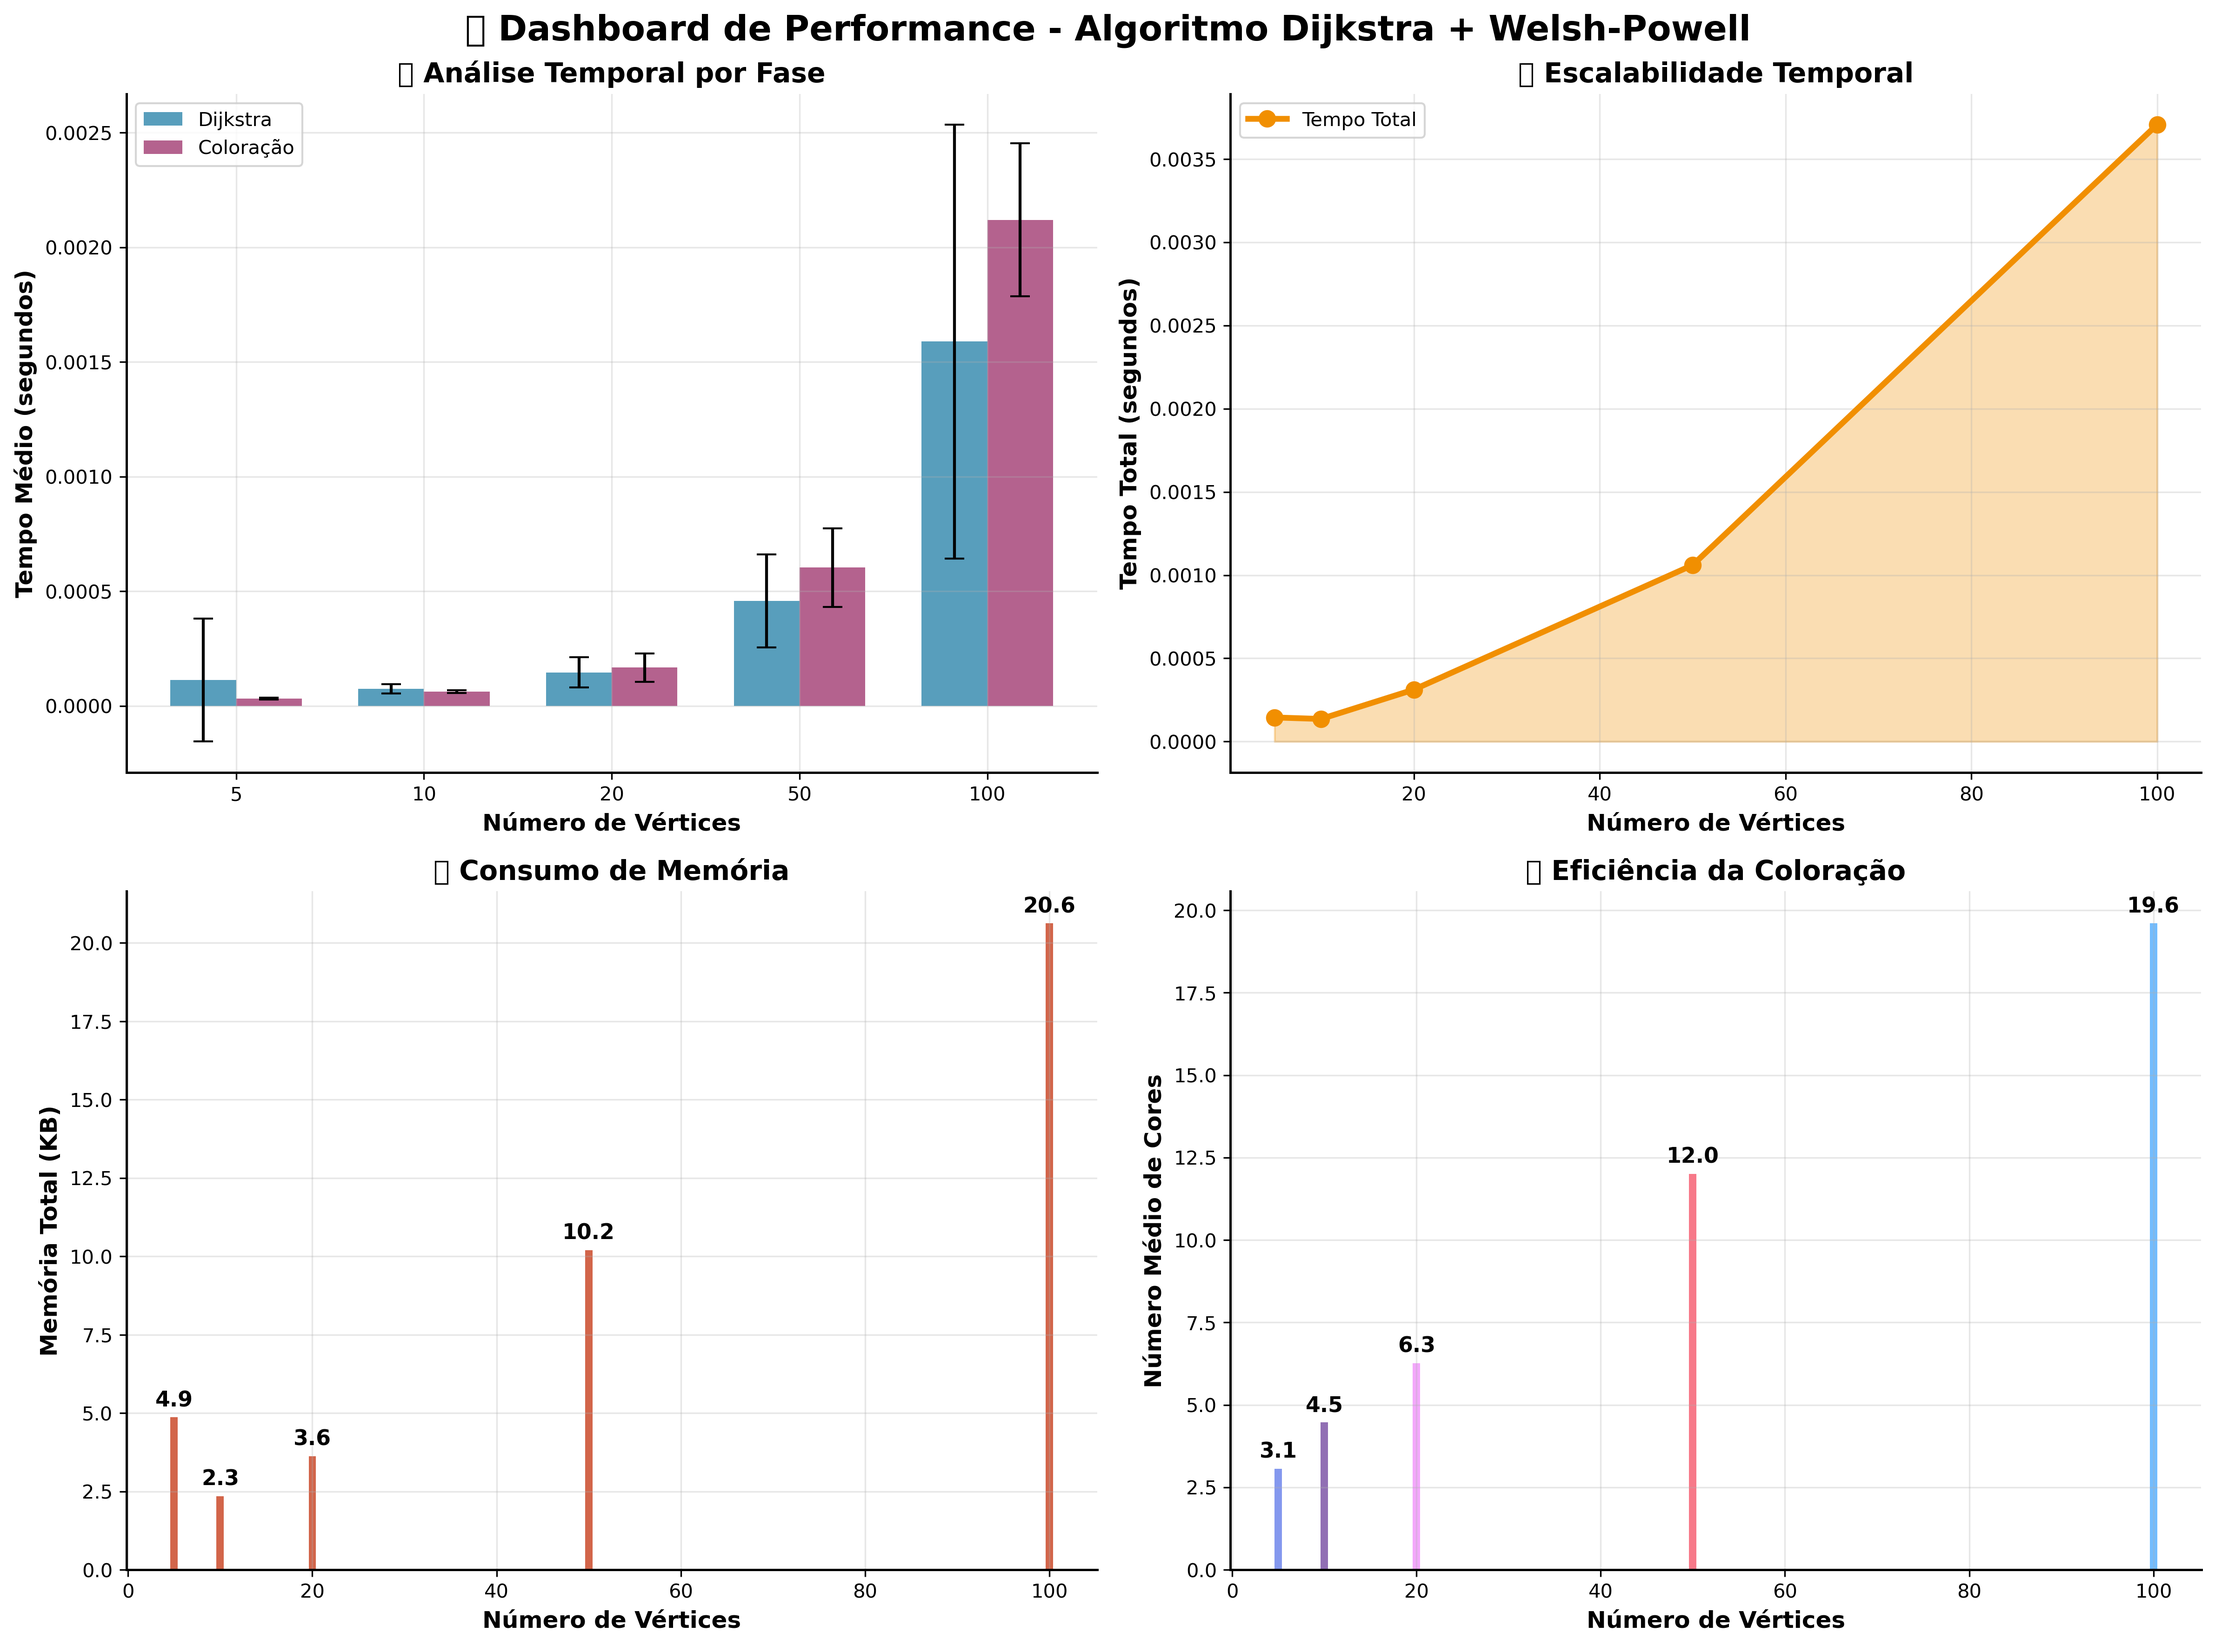
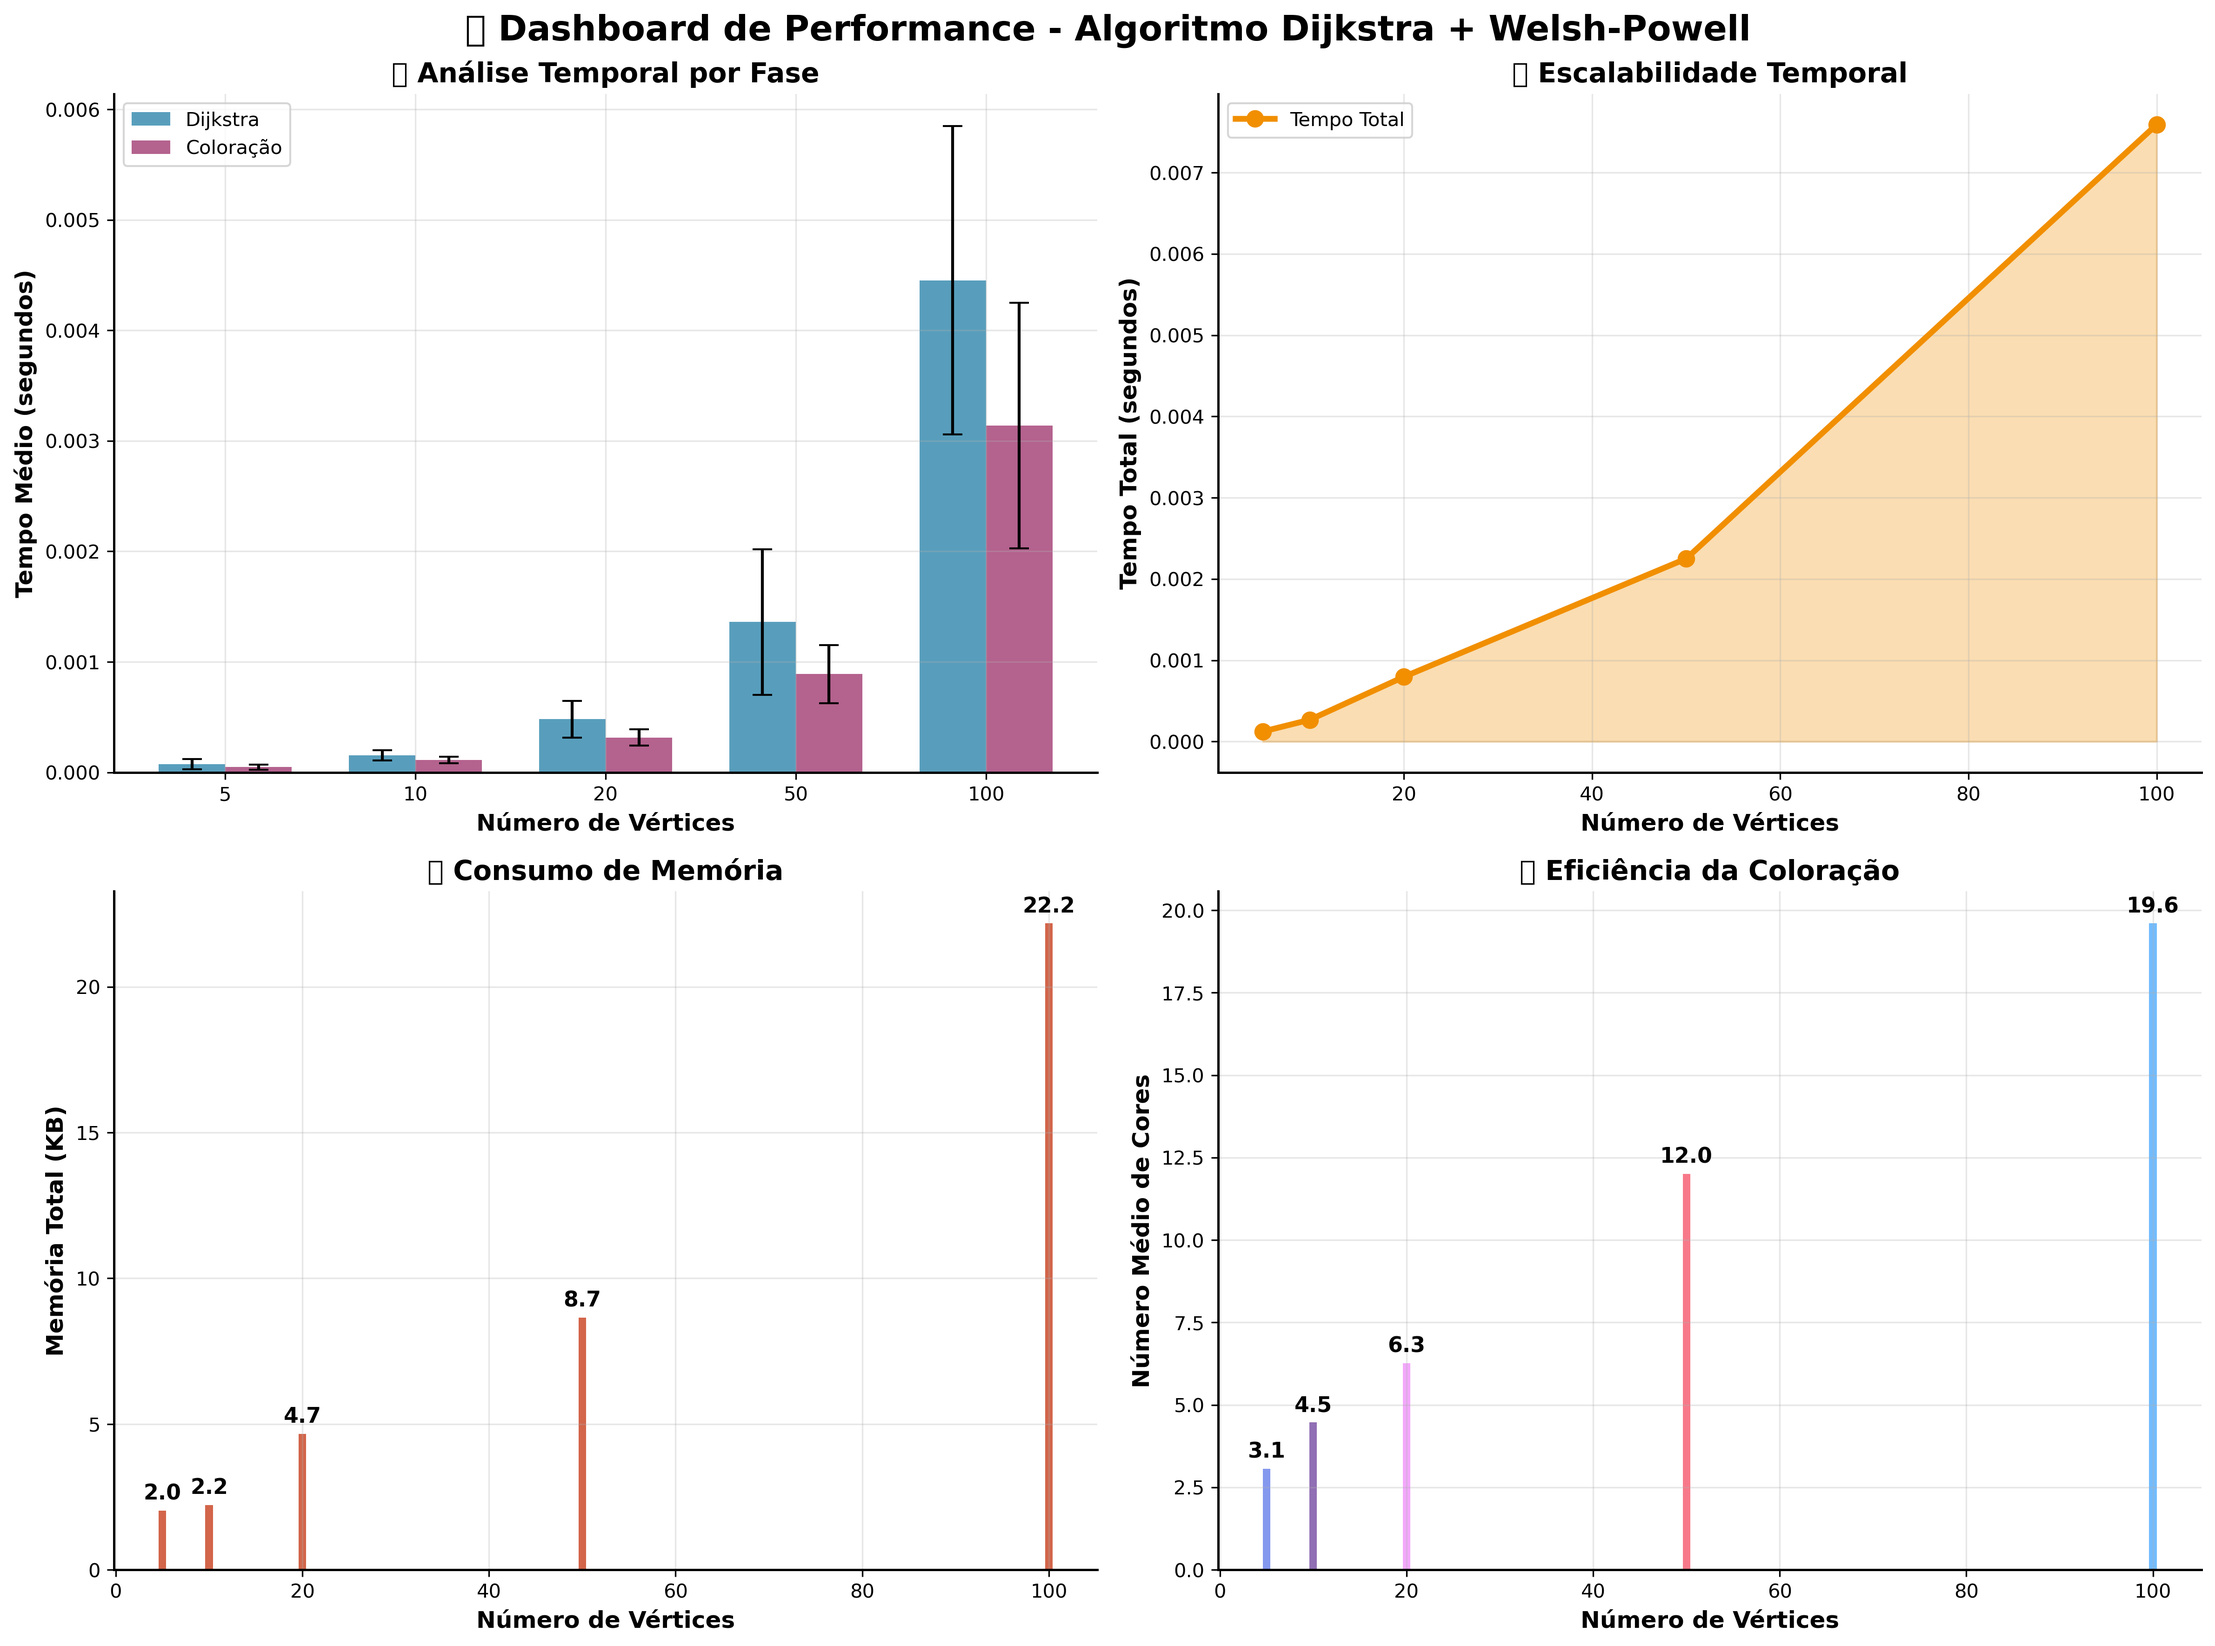
feat: Implement Dijkstra's algorithm for shortest path calculation and update performance analysis results

diff --git a/main.py b/main.py
@@ -82,6 +82,78 @@ def generate_weighted_graph(n_nodes: int, p: float = 0.5, seed: int = None) -> n
     
     return g
 
+# def dijkstra_algorithm(graph: nx.Graph, source: int) -> Dict[int, float]:
+#     distances = {vertex: float('infinity') for vertex in graph.nodes()}
+#     distances[source] = 0
+#     unvisited = set(graph.nodes())
+    
+#     while unvisited:
+#         current = min(unvisited, key=lambda x: distances[x])
+        
+#         if distances[current] == float('infinity'):
+#             break
+            
+#         unvisited.remove(current)
+        
+#         for neighbor in graph.neighbors(current):
+#             if neighbor in unvisited:
+#                 weight = graph[current][neighbor]['weight']
+#                 distance = distances[current] + weight
+                
+#                 if distance < distances[neighbor]:
+#                     distances[neighbor] = distance
+    
+#     return distances
+
+
+# Implementa o algoritmo de Dijkstra para encontrar as menores distâncias
+# de um nó de origem até todos os outros nós de um grafo ponderado
+# Parâmetros: grafo (nx.Graph), nó de origem (int)
+def dijkstra_algorithm(graph: nx.Graph, source: int) -> Dict[int, float]:
+    
+    # Inicializa todas as distâncias como infinito
+    distances = {vertex: float('infinity') for vertex in graph.nodes()}
+    
+    # A distância do nó de origem até ele mesmo é 0
+    distances[source] = 0
+    
+    # Cria um conjunto com todos os nós não visitados
+    unvisited = set(graph.nodes())
+    
+    # Continua enquanto houver nós não visitados
+    while unvisited:
+        
+        # Seleciona o nó com a menor distância conhecida
+        current = min(unvisited, key=lambda x: distances[x])
+        
+        # Se a menor distância for infinita, os nós restantes são inacessíveis
+        if distances[current] == float('infinity'):
+            break
+        
+        # Marca o nó atual como visitado
+        unvisited.remove(current)
+        
+        # Para cada vizinho do nó atual
+        for neighbor in graph.neighbors(current):
+            
+            # Considera apenas os vizinhos não visitados
+            if neighbor in unvisited:
+                
+                # Obtém o peso da aresta entre current e neighbor
+                weight = graph[current][neighbor]['weight']
+                
+                # Calcula a nova distância até o vizinho
+                distance = distances[current] + weight
+                
+                # Se a nova distância for menor, atualiza
+                if distance < distances[neighbor]:
+                    distances[neighbor] = distance
+    
+    # Retorna o dicionário com as menores distâncias encontradas
+    return distances
+
+
+
 def dijkstra_path_order(graph: nx.Graph, source: int = 0) -> List[int]:
     """
     Determina ordenação de vértices baseada em distâncias mínimas via algoritmo de Dijkstra.
@@ -93,14 +165,12 @@ def dijkstra_path_order(graph: nx.Graph, source: int = 0) -> List[int]:
     Returns:
         List[int]: Vértices ordenados por distância crescente do source
     """
-    try:
-        lengths = nx.single_source_dijkstra_path_length(graph, source)
-        # Ordena por distância, depois por ID do nó para desempate
-        ordered_nodes = sorted(lengths.keys(), key=lambda x: (lengths[x], x))
-        return ordered_nodes
-    except nx.NetworkXNoPath:
-        # Fallback para grafos desconexos
-        return list(graph.nodes())
+    # Calcula distâncias usando nossa implementação do Dijkstra
+    distances = dijkstra_algorithm(graph, source)
+    
+    # Ordena vértices por distância e usa ID como desempate
+    ordered_nodes = sorted(distances.keys(), key=lambda x: (distances[x], x))
+    return ordered_nodes
 
 def welsh_powell_coloring(graph: nx.Graph, order: List[int]) -> Dict[int, int]:
     """
